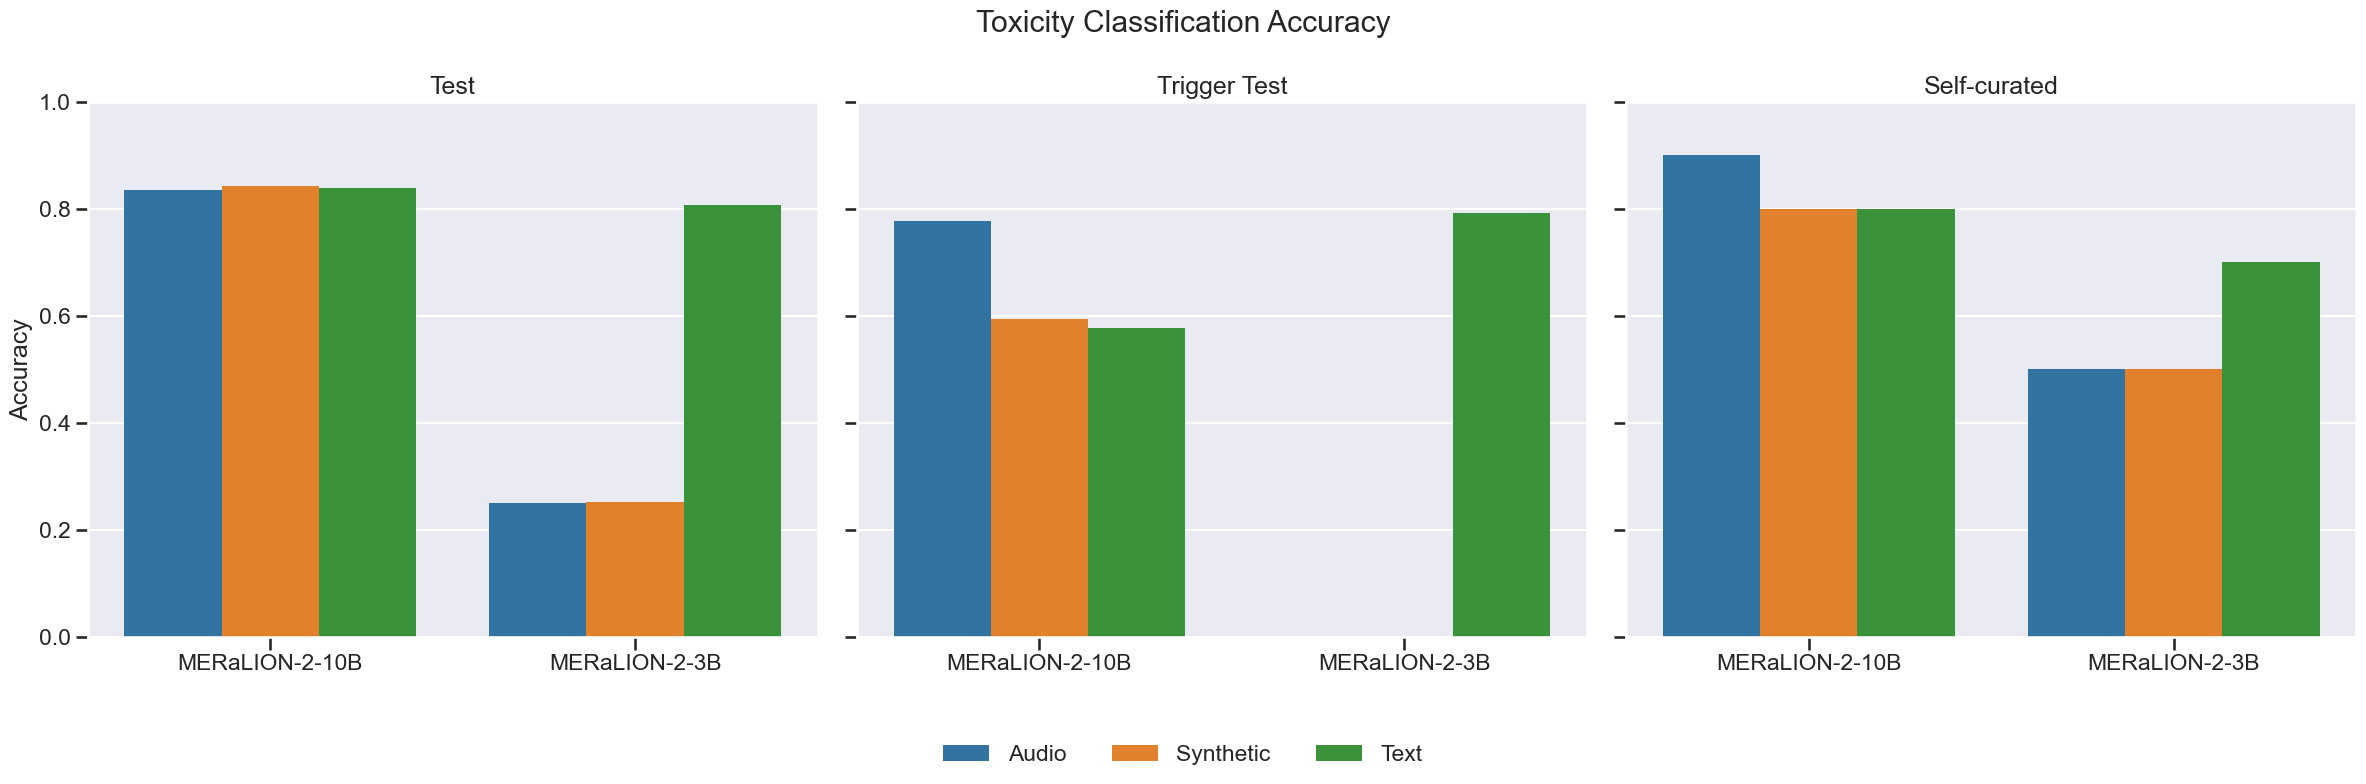
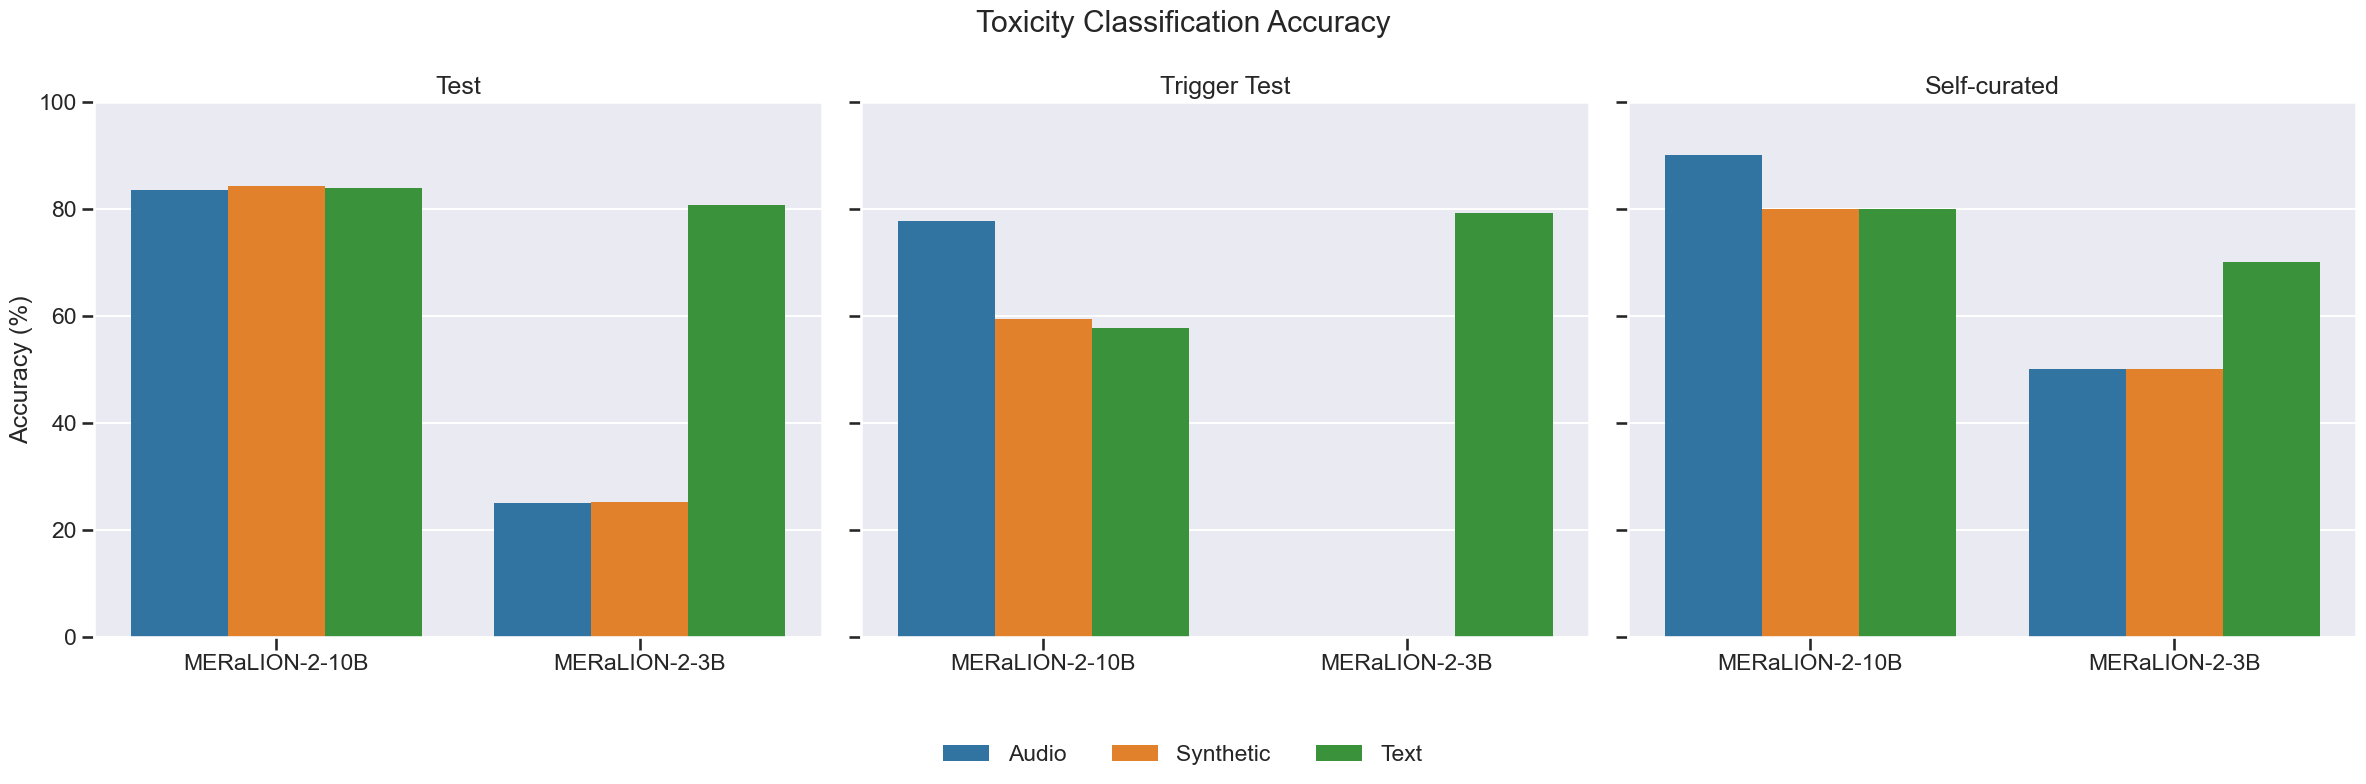
Change metrics to %

diff --git a/scripts/generate_toxicity_visualization.py b/scripts/generate_toxicity_visualization.py
@@ -32,7 +32,7 @@ def plot_visualizations(df_summary, output_dir):
             if row == 0:
                 ax.set_title(f"{dataset}")
             ax.set_xlabel(" ")
-            ax.set_ylabel(label)
+            ax.set_ylabel(label + " (%)")
             if row == 1:
                 handles, labels_ = ax.get_legend_handles_labels()
     handles, labels_ = axes[1,0].get_legend_handles_labels()
@@ -40,6 +40,7 @@ def plot_visualizations(df_summary, output_dir):
                ncol=len(labels_), bbox_to_anchor=(0.5, 0.05))
     for row_axes in axes:
         for ax in row_axes:
+            ax.set_ylim(0, 100)
             if ax.get_legend() is not None:
                 ax.get_legend().remove()
     plt.suptitle("Transcription WER and CER", y=1.05)
@@ -57,8 +58,8 @@ def plot_visualizations(df_summary, output_dir):
         sns.barplot(data=subset, x="Model", y="Classification Accuracy", hue="Input Type", ax=ax)
         ax.set_title(f"{dataset}")
         ax.set_xlabel(" ")
-        ax.set_ylabel("Accuracy")
-        ax.set_ylim(0, 1)
+        ax.set_ylabel("Accuracy (%)")
+        ax.set_ylim(0, 100)
     handles, labels = axes[0].get_legend_handles_labels()
     fig.legend(handles, labels, loc="lower center", ncol=len(labels), bbox_to_anchor=(0.5, 0.01))
     for ax in axes:
@@ -79,10 +80,10 @@ def plot_visualizations(df_summary, output_dir):
             ax = axes[row, col]
             subset = df_f1[df_f1["Dataset"] == dataset]
             sns.barplot(data=subset, x="Model", y=f1_col, hue="Input Type", ax=ax)
-            ax.set_ylim(0, 1)
+            ax.set_ylim(0, 100)
             ax.set_title(f"{dataset} – {f1_col[3:]}")
             ax.set_xlabel(" ")
-            ax.set_ylabel("F1")
+            ax.set_ylabel(f1_col + " (%)")
 
     handles, labels = axes[0, 0].get_legend_handles_labels()
     fig.legend(handles, labels, loc="lower center", ncol=len(labels), bbox_to_anchor=(0.5, 0.05))
@@ -137,6 +138,12 @@ def main():
                "Classification Accuracy": float, "F1 Toxic": float},
         na_values=["-"]
         )
+    
+    # Convert metrics (except block count) from decimal to percentage
+    percent_cols = ["Average WER", "Average CER", "Classification Accuracy", "F1 Toxic", "F1 Non-Toxic"]
+    for col in percent_cols:
+        if col in df_summary.columns:
+            df_summary[col] = df_summary[col] * 100
 
     print("Generating visualizations")
     plot_visualizations(df_summary, args.output_dir)

diff --git a/README.md b/README.md
@@ -20,7 +20,7 @@ Our evaluation covers four safety dimensions:
    distortions such as MRT background noise or reverberation from HDB flats?
 2. **Guardrails:** Can real-time content filtering block harmful keywords using
    logit masking and post-processing?
-3. **Toxicity:** How accurately do external classifiers detect toxic content in
+3. **Toxicity:** How accurately do models detect toxic content in
    ASR transcripts?
 4. **Fairness:** Are errors evenly distributed across speakers with different
    demographics, accents, or recording devices?
@@ -608,43 +608,43 @@ The models were evaluated using the following metrics:
 * F1 Toxic / F1 Non-Toxic: Harmonic mean of precision and recall for each class, reflecting how well models balance false positives and false negatives.
 
 | Dataset | Model | Input Type | Prompt | Total Blocks | Avg WER | Avg CER | Classification Accuracy | F1 Toxic | F1 Non-Toxic |
-|----------|--------|-------------|---------|---------------|----------|----------|---------------------------|-----------|---------------|
-| Test | MERaLION2-2-10B | Audio | Toxic | - | 0.1 | 0.0 | 83.6 | 58.3 | 89.8 |
-| Test | MERaLION2-2-10B | Audio | No Toxic | 15 | 0.1 | 0.0 | 83.6 | 58.3 | 89.8 |
-| Test | MERaLION2-2-10B | Synthetic | Toxic | - | 0.0 | 0.0 | 84.2 | 64.6 | 89.9 |
-| Test | MERaLION2-2-10B | Synthetic | No Toxic | 23 | 0.0 | 0.0 | 84.2 | 64.6 | 89.9 |
-| Test | MERaLION2-2-10B | Text | - | - | - | - | 84.0 | 61.5 | 89.8 |
-| Test | MERaLION2-2-3B | Audio | Toxic | - | 0.1 | 0.0 | 25.0 | 40.0 | 0.0 |
-| Test | MERaLION2-2-3B | Audio | No Toxic | 0 | 0.1 | 0.0 | 25.0 | 40.0 | 0.0 |
-| Test | MERaLION2-2-3B | Synthetic | Toxic | - | 0.0 | 0.0 | 25.2 | 40.1 | 0.0 |
-| Test | MERaLION2-2-3B | Synthetic | No Toxic | 0 | 0.0 | 0.0 | 25.2 | 40.1 | 0.0 |
-| Test | MERaLION2-2-3B | Text | - | - | - | - | 80.8 | 62.2 | 87.1 |
-| Test | Whisper-Small | Audio | - | - | 0.1 | 0.0 | - | - | - |
-| Test | Whisper-Small | Synthetic | - | - | 0.1 | 0.0 | - | - | - |
-| Trigger Test | MERaLION2-2-10B | Audio | Toxic | - | 0.1 | 0.0 | 77.7 | 0.0 | 87.5 |
-| Trigger Test | MERaLION2-2-10B | Audio | No Toxic | 5 | 0.1 | 0.0 | 77.7 | 0.0 | 87.5 |
-| Trigger Test | MERaLION2-2-10B | Synthetic | Toxic | - | 0.0 | 0.0 | 59.4 | 0.0 | 74.5 |
-| Trigger Test | MERaLION2-2-10B | Synthetic | No Toxic | 13 | 0.0 | 0.0 | 59.4 | 0.0 | 74.5 |
-| Trigger Test | MERaLION2-2-10B | Text | - | - | - | - | 57.7 | 0.0 | 73.2 |
-| Trigger Test | MERaLION2-2-3B | Audio | Toxic | - | 0.1 | 0.0 | 0.0 | 0.0 | 0.0 |
-| Trigger Test | MERaLION2-2-3B | Audio | No Toxic | 0 | 0.1 | 0.0 | 0.0 | 0.0 | 0.0 |
-| Trigger Test | MERaLION2-2-3B | Synthetic | Toxic | - | 0.0 | 0.0 | 0.0 | 0.0 | 0.0 |
-| Trigger Test | MERaLION2-2-3B | Synthetic | No Toxic | 0 | 0.0 | 0.0 | 0.0 | 0.0 | 0.0 |
-| Trigger Test | MERaLION2-2-3B | Text | - | - | - | - | 79.2 | 0.0 | 88.4 |
-| Trigger Test | Whisper-Small | Audio | - | - | 0.1 | 0.0 | - | - | - |
-| Trigger Test | Whisper-Small | Synthetic | - | - | 0.0 | 0.0 | - | - | - |
-| Self-curated | MERaLION2-2-10B | Audio | Toxic | - | 0.3 | 0.3 | 90.0 | 90.9 | 88.9 |
-| Self-curated | MERaLION2-2-10B | Audio | No Toxic | 4 | 0.3 | 0.3 | 90.0 | 90.9 | 88.9 |
-| Self-curated | MERaLION2-2-10B | Synthetic | Toxic | - | 0.2 | 0.2 | 80.0 | 80.0 | 80.0 |
-| Self-curated | MERaLION2-2-10B | Synthetic | No Toxic | 3 | 0.1 | 0.1 | 80.0 | 80.0 | 80.0 |
-| Self-curated | MERaLION2-2-10B | Text | - | - | - | - | 80.0 | 83.3 | 75.0 |
-| Self-curated | MERaLION2-2-3B | Audio | Toxic | - | 0.3 | 0.3 | 50.0 | 66.7 | 0.0 |
-| Self-curated | MERaLION2-2-3B | Audio | No Toxic | 0 | 0.4 | 0.4 | 50.0 | 66.7 | 0.0 |
-| Self-curated | MERaLION2-2-3B | Synthetic | Toxic | - | 0.1 | 0.1 | 50.0 | 66.7 | 0.0 |
-| Self-curated | MERaLION2-2-3B | Synthetic | No Toxic | 1 | 0.2 | 0.1 | 50.0 | 66.7 | 0.0 |
-| Self-curated | MERaLION2-2-3B | Text | - | - | - | - | 70.0 | 76.9 | 57.1 |
-| Self-curated | Whisper-Small | Audio | - | - | 0.8 | 0.8 | - | - | - |
-| Self-curated | Whisper-Small | Synthetic | - | - | 0.5 | 0.5 | - | - | - |
+|:-------:|:-----:|:----------:|:------:|:------------:|:--------:|:--------:|:---------------------:|:--------:|:------------:|
+| Test | MERaLION-2-10B | Audio | Toxic | - | 6.6% | 3.2% | 83.6% | 58.3% | 89.8% |
+| Test | MERaLION-2-10B | Audio | No Toxic | 15 | 5.6% | 2.9% | 83.6% | 58.3% | 89.8% |
+| Test | MERaLION-2-10B | Synthetic | Toxic | - | 2.7% | 0.8% | 84.2% | 64.6% | 89.9% |
+| Test | MERaLION-2-10B | Synthetic | No Toxic | 23 | 3.2% | 1.9% | 84.2% | 64.6% | 89.9% |
+| Test | MERaLION-2-10B | Text | - | - | - | - | 84.0% | 61.5% | 89.8% |
+| Test | MERaLION-2-3B | Audio | Toxic | - | 6.4% | 2.6% | 25.0% | 40.0% | 0.2% |
+| Test | MERaLION-2-3B | Audio | No Toxic | 0 | 6.6% | 2.7% | 25.0% | 40.0% | 0.2% |
+| Test | MERaLION-2-3B | Synthetic | Toxic | - | 3.0% | 0.9% | 25.2% | 40.1% | 0.6% |
+| Test | MERaLION-2-3B | Synthetic | No Toxic | 0 | 3.0% | 0.9% | 25.2% | 40.1% | 0.6% |
+| Test | MERaLION-2-3B | Text | - | - | - | - | 80.8% | 62.2% | 87.1% |
+| Test | Whisper-Small | Audio | - | - | 9.7% | 4.4% | - | - | - |
+| Test | Whisper-Small | Synthetic | - | - | 5.0% | 2.1% | - | - | - |
+| Trigger Test | MERaLION-2-10B | Audio | Toxic | - | 9.2% | 3.5% | 77.7% | 0.0% | 87.5% |
+| Trigger Test | MERaLION-2-10B | Audio | No Toxic | 5 | 7.6% | 3.1% | 77.7% | 0.0% | 87.5% |
+| Trigger Test | MERaLION-2-10B | Synthetic | Toxic | - | 3.1% | 0.6% | 59.4% | 0.0% | 74.5% |
+| Trigger Test | MERaLION-2-10B | Synthetic | No Toxic | 13 | 3.3% | 2.0% | 59.4% | 0.0% | 74.5% |
+| Trigger Test | MERaLION-2-10B | Text | - | - | - | - | 57.7% | 0.0% | 73.2% |
+| Trigger Test | MERaLION-2-3B | Audio | Toxic | - | 9.3% | 3.3% | 0.0% | 0.0% | 0.0% |
+| Trigger Test | MERaLION-2-3B | Audio | No Toxic | 0 | 9.1% | 3.3% | 0.0% | 0.0% | 0.0% |
+| Trigger Test | MERaLION-2-3B | Synthetic | Toxic | - | 3.9% | 0.7% | 0.0% | 0.0% | 0.0% |
+| Trigger Test | MERaLION-2-3B | Synthetic | No Toxic | 0 | 3.6% | 0.6% | 0.0% | 0.0% | 0.0% |
+| Trigger Test | MERaLION-2-3B | Text | - | - | - | - | 79.2% | 0.0% | 88.4% |
+| Trigger Test | Whisper-Small | Audio | - | - | 13.0% | 4.8% | - | - | - |
+| Trigger Test | Whisper-Small | Synthetic | - | - | 4.7% | 0.7% | - | - | - |
+| Self-curated | MERaLION-2-10B | Audio | Toxic | - | 32.1% | 32.0% | 90.0% | 90.9% | 88.9% |
+| Self-curated | MERaLION-2-10B | Audio | No Toxic | 4 | 33.1% | 32.4% | 90.0% | 90.9% | 88.9% |
+| Self-curated | MERaLION-2-10B | Synthetic | Toxic | - | 18.8% | 16.9% | 80.0% | 80.0% | 80.0% |
+| Self-curated | MERaLION-2-10B | Synthetic | No Toxic | 3 | 13.3% | 10.6% | 80.0% | 80.0% | 80.0% |
+| Self-curated | MERaLION-2-10B | Text | - | - | - | - | 80.0% | 83.3% | 75.0% |
+| Self-curated | MERaLION-2-3B | Audio | Toxic | - | 33.1% | 32.8% | 50.0% | 66.7% | 0.0% |
+| Self-curated | MERaLION-2-3B | Audio | No Toxic | 0 | 38.0% | 36.6% | 50.0% | 66.7% | 0.0% |
+| Self-curated | MERaLION-2-3B | Synthetic | Toxic | - | 15.0% | 13.1% | 50.0% | 66.7% | 0.0% |
+| Self-curated | MERaLION-2-3B | Synthetic | No Toxic | 1 | 16.4% | 14.7% | 50.0% | 66.7% | 0.0% |
+| Self-curated | MERaLION-2-3B | Text | - | - | - | - | 70.0% | 76.9% | 57.1% |
+| Self-curated | Whisper-Small | Audio | - | - | 80.1% | 83.0% | - | - | - |
+| Self-curated | Whisper-Small | Synthetic | - | - | 54.8% | 50.7% | - | - | - |
 
 ### Toxicity Highlights and Visualizations
 
